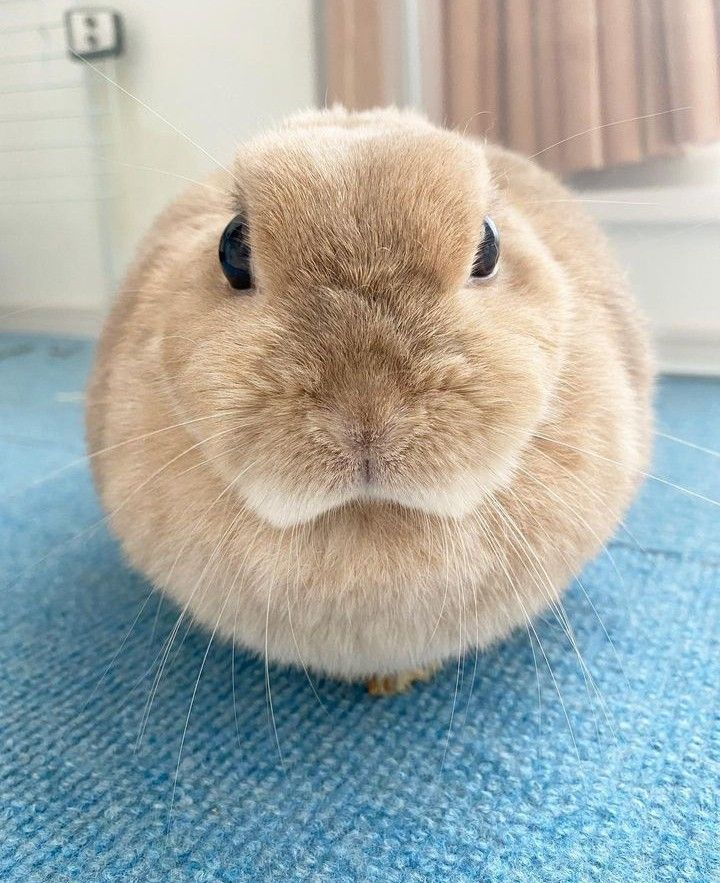
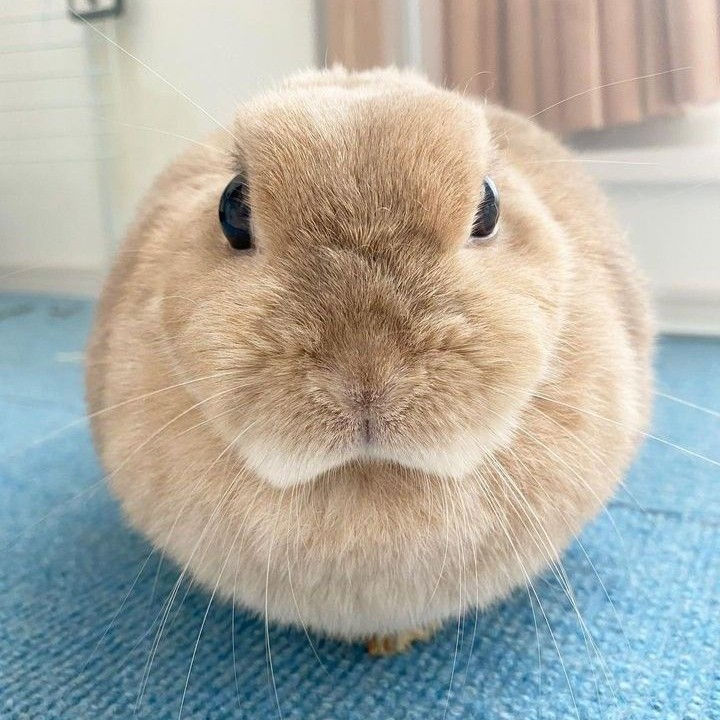
Update footer text and adjust styling for improved layout

diff --git a/style.css b/style.css
@@ -462,15 +462,14 @@ section > p {
 footer {
   background: rgba(18, 18, 18, 0.98);
   color: white;
-  padding: 24px 24px 20px;
-  margin-top: 18px;
-  position: relative;
+  padding: 32px 24px;
+  margin-top: 30px;
 }
 
 .footer-grid {
   display: flex;
   justify-content: space-between;
-  align-items: flex-start;
+  align-items: center;
   flex-wrap: wrap;
   gap: 24px;
   max-width: 1000px;
@@ -483,10 +482,6 @@ footer {
   padding: 0;
   background: transparent;
   box-shadow: none;
-}
-
-.footer-brand {
-  align-self: flex-end;
 }
 
 .footer-brand p,

diff --git a/index.html b/index.html
@@ -156,7 +156,7 @@
     <div class="footer-grid">
       <div class="footer-brand">
         <p>© 2026 Becket</p>
-        <p>A hobbyist building bright, modern web experiences with a friendly design touch.</p>
+        <p>A hobbyist building bright, modern web experiences with a friendly design touch :)</p>
       </div>
       <div class="footer-contact">
         <p><strong>Email</strong></p>
